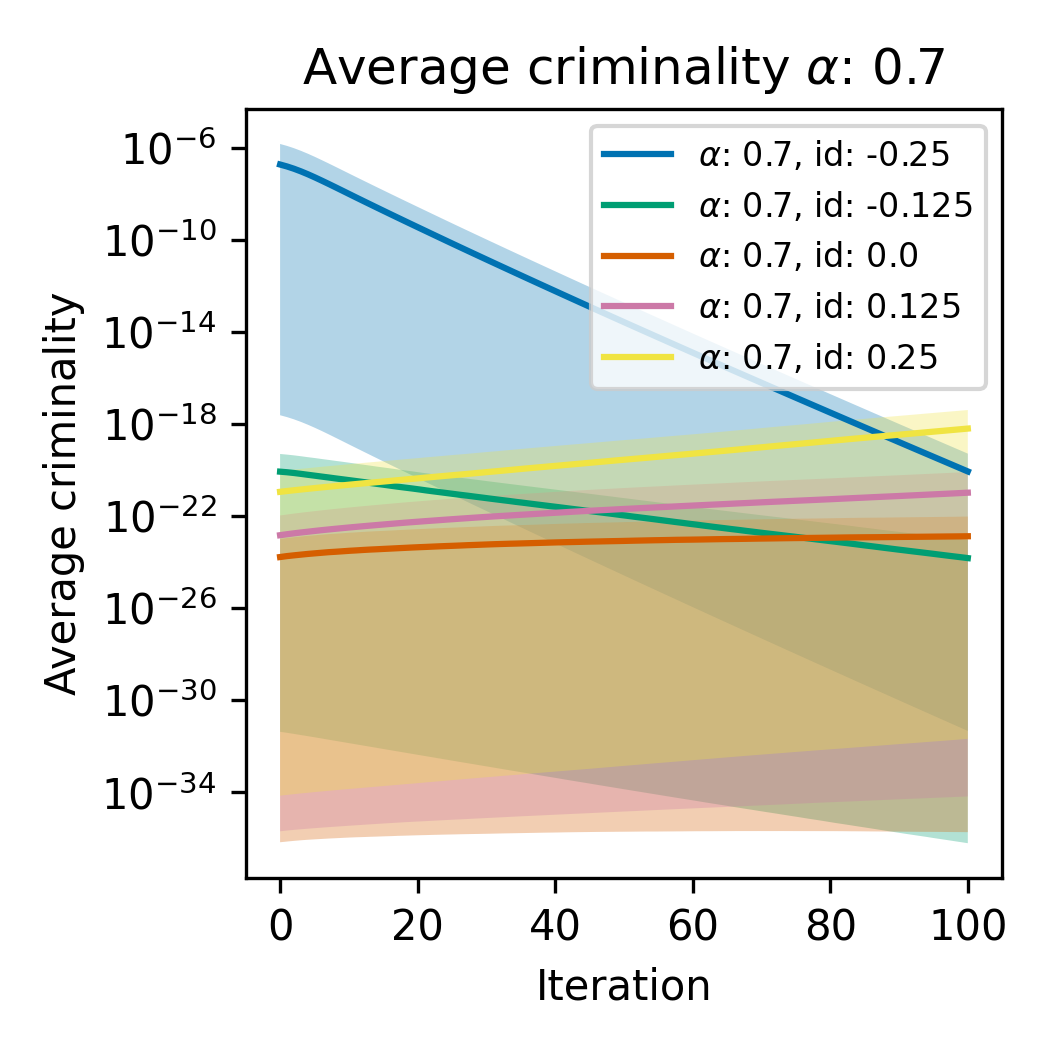
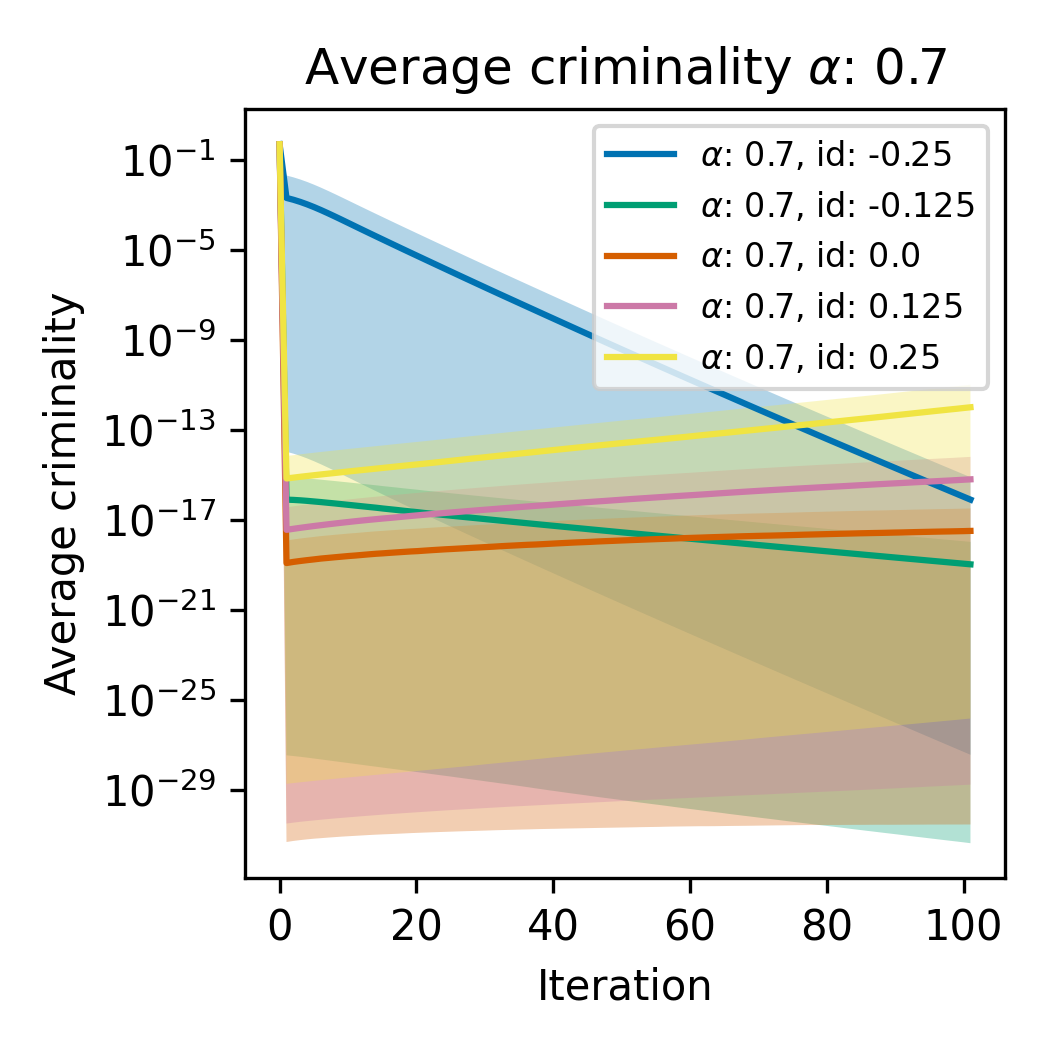
hotfixes

diff --git a/emergence.py b/emergence.py
@@ -85,7 +85,7 @@ def simulate_average_crime(grid_size=(50, 50), timesteps=100, alpha_range=(.1, .
                            percolation_threshold=0.5, police_threshold=0.7, police_effect=0.3, redistribution_frac=0.7,
                            police_units=15, police=False, amount_of_runs=10, title='Emergence of Giant Component', save_values=False):
     n = 5
-    criminality_over_time = np.zeros((n*n, amount_of_runs, timesteps))
+    criminality_over_time = np.zeros((n*n, amount_of_runs, timesteps + 1))
     alphas = np.linspace(alpha_range[0], alpha_range[1], n)
     influence_diffs = np.linspace(influence_diff_range[0], influence_diff_range[1], n)
     iteration_parameters = np.array(list(product(alphas, influence_diffs))).round(3)
@@ -97,6 +97,7 @@ def simulate_average_crime(grid_size=(50, 50), timesteps=100, alpha_range=(.1, .
         print(f"Simulation {j+1}/{amount_of_runs}")
         criminality = init_criminality
         for i, (alpha, influence_diff) in enumerate(iteration_parameters):
+            criminality_over_time[i, j, 0] = np.mean(init_criminality)
             beta = 1 - alpha
             for t in range(timesteps):
                 if police:
@@ -104,7 +105,7 @@ def simulate_average_crime(grid_size=(50, 50), timesteps=100, alpha_range=(.1, .
                                                             police_threshold, police_effect, redistribution_frac, police_units, alpha=alpha, beta=beta, grid_size=grid_size)[0]
                 else:
                     criminality = update_grid_nopolice(criminality, education, income, influence_diff, alpha=alpha, beta=beta)
-                criminality_over_time[i, j, t] = np.mean(criminality)
+                criminality_over_time[i, j, t+1] = np.mean(criminality)
 
     plot = NewPlot()
     a_prime = np.inf
@@ -119,7 +120,7 @@ def simulate_average_crime(grid_size=(50, 50), timesteps=100, alpha_range=(.1, .
         a_prime = a
         min_ci = np.min(line, axis=0)
         max_ci = np.max(line, axis=0)
-        plot.add_plot(np.linspace(0, timesteps, timesteps), np.mean(line, axis=0), ci_max=max_ci, ci_min=min_ci, label=r"$\alpha$: {a}, id: {b}".format(a=a, b=b))
+        plot.add_plot(np.linspace(0, timesteps+1, timesteps + 1), np.mean(line, axis=0), ci_max=max_ci, ci_min=min_ci, label=r"$\alpha$: {a}, id: {b}".format(a=a, b=b))
     plot.add_title(r'Average criminality $\alpha$: {a}'.format(a=a_prime))
     plot.add_labels('Iteration', 'Average criminality')
     plot.set_logscale(False, True)
